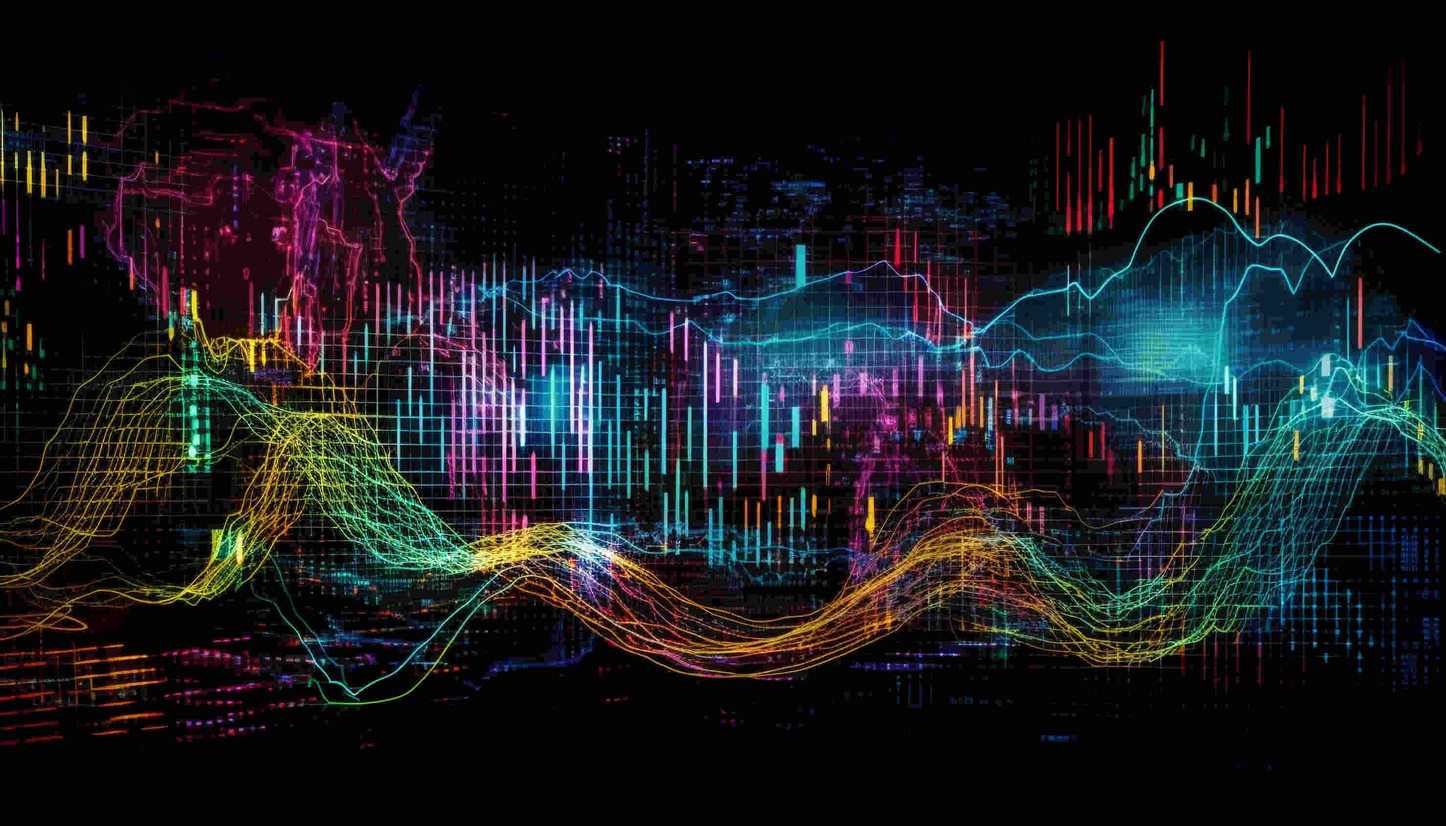
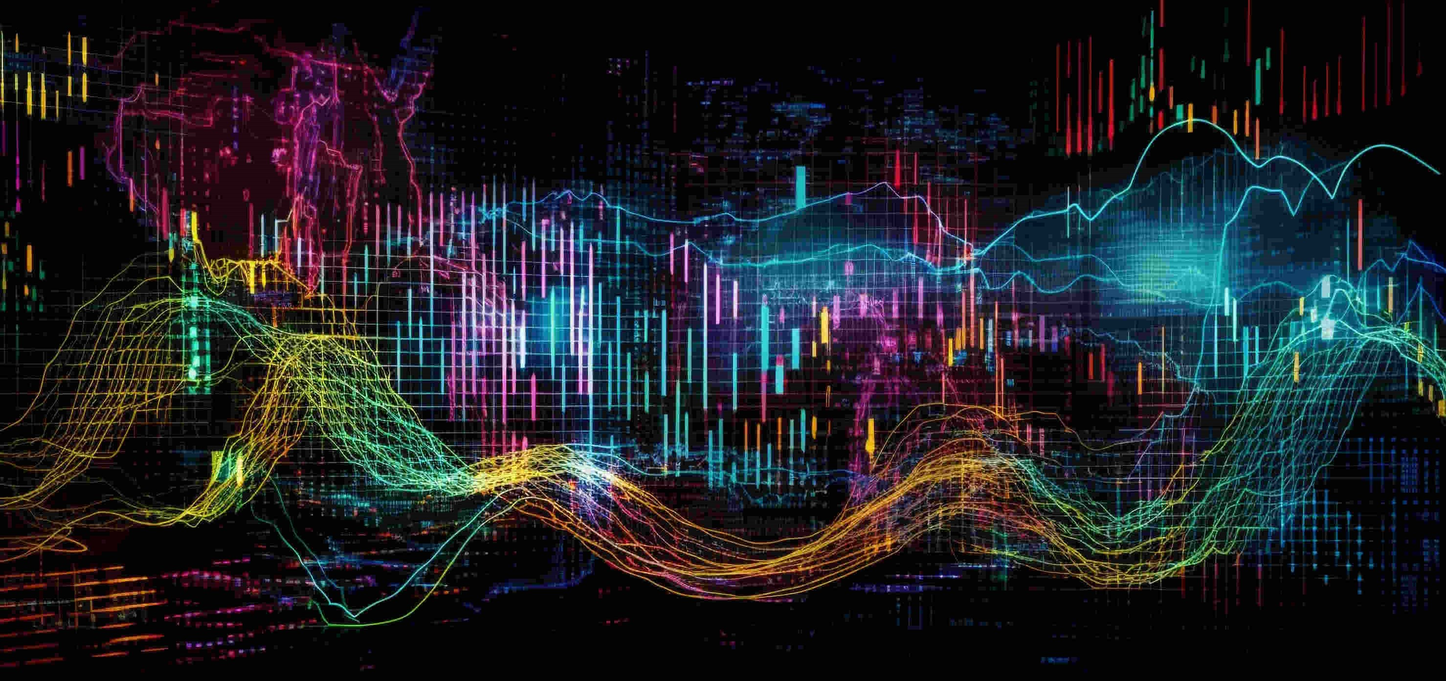
added sections to landing page

diff --git a/frontend/src/styles/PublicStyles/InitialLandingPage.css b/frontend/src/styles/PublicStyles/InitialLandingPage.css
@@ -1,7 +1,6 @@
 .landing_page {
   width: 100%;
   height: 90vh;
-  display: flex;
   justify-content: center;
   align-items: left;
   flex-direction: column;
@@ -9,48 +8,7 @@
   background-size: cover;
   font-family: "Gill Sans", "Gill Sans MT", Calibri, "Trebuchet MS", sans-serif;
 }
-
-.headerContainer {
-  width: auto;
-  margin-left: 50px;
-}
-
-.headerContainer h1 {
-  justify-content: center;
-  align-items: center;
-  font-size: 90px;
-  height: 60px;
-  font-weight: 50;
-  color: black;
-}
-
-.headerContainer p {
-  padding: 0;
-  font-size: 40px;
-  font-weight: lighter;
-  color: black;
-}
-
-.headerContainer button {
-  color: black;
-  border: none;
-  border-radius: 5px;
-  cursor: pointer;
-  justify-content: center;
-  background-color: #121619;
-  height: 50px;
-  width: 180px;
-  color: white;
-  text-decoration: none;
-  font-size: 20px;
-}
-
-.headerContainer button:hover {
-  background-color: #07090a;
-  cursor: pointer;
-  transition: 0.3s ease-in;
-}
-
+/* add screen resizing styles */
 @media only screen and (max-width: 650px) {
   .home {
     justify-content: center;
@@ -75,20 +33,112 @@
     height: 30px;
     color: white;
   }
+}
 
-  .headerContainer p {
-    font-size: 30px;
-    color: white;
-  }
+/* Reset basic styles */
+* {
+  margin: 0;
+  padding: 0;
+  box-sizing: border-box;
+}
 
-  .headerContainer button {
-    background-color: white;
-    color: #121619;
-    margin-bottom: 30px;
-  }
+body {
+  font-family: Arial, sans-serif;
+  line-height: 1.6;
+  overflow-x: hidden; /* Prevent horizontal scrolling */
+}
 
-  .headerContainer button:hover {
-    background-color: rgb(225, 225, 225);
-    color: #121619;
-  }
+/* Section styles */
+.section {
+  padding: 100px 20px; /* Adds space around the content */
+  min-height: 200px; /* Each section takes up at least the full viewport height */
+  display: flex;
+  align-items: center;
+  justify-content: center;
+  text-align: center;
+}
+
+/* Different background colors for each section */
+.headerContainer {
+  background-color: #000000;
+  height: 700px;
+}
+
+.headerContainer h1 {
+  justify-content: center;
+  align-items: center;
+  font-size: 90px;
+  height: 60px;
+  font-weight: 50;
+  font-family: system-ui, -apple-system, BlinkMacSystemFont, "Segoe UI", Roboto,
+    Oxygen, Ubuntu, Cantarell, "Open Sans", "Helvetica Neue", sans-serif;
+  color: rgb(255, 255, 255);
+}
+
+.fancy {
+  background-size: cover; /* Make the image cover the entire section */
+  background-position: center; /* Center the background image */
+  background-repeat: no-repeat; /* Prevent the background image from repeating */
+  height: 750px;
+  position: relative;
+}
+
+.textbox {
+  background-color: rgb(10, 10, 10); /* Light background with opacity */
+  padding: 20px;
+  width: 750px; /* Width is 50% of the section */
+  height: 450px;
+  position: absolute; /* Position absolute to control placement */
+  left: 50px; /* 25% from the left edge of the section */
+  top: 50%; /* Vertically center the textbox */
+  transform: translateY(
+    -50%
+  ); /* Adjust position for perfect vertical centering */
+  box-shadow: 0px 4px 8px rgba(0, 0, 0, 0.2); /* Optional: Add a shadow for better visibility */
+  border-radius: 50px;
+  display: flex;
+}
+
+.fancyMsg {
+  font-family: system-ui, -apple-system, BlinkMacSystemFont, "Segoe UI", Roboto,
+    Oxygen, Ubuntu, Cantarell, "Open Sans", "Helvetica Neue", sans-serif;
+  color: rgb(225, 225, 225);
+  font-size: 80px;
+  text-align: left;
+  display: table-cell;
+  font-weight: lighter;
+  line-height: 100px;
+
+  position: absolute;
+  top: 20%;
+  left: 40px;
+  transform: translateY(-20%);
+}
+
+.getStartedLink {
+  position: absolute;
+  font-family: "Trebuchet MS", "Lucida Sans Unicode", "Lucida Grande",
+    "Lucida Sans", Arial, sans-serif;
+  color: rgb(225, 225, 225);
+  font-size: 40px;
+  text-align: right;
+  top: 80%;
+  right: 40px;
+}
+
+.getStartedLink:hover {
+  color: aliceblue;
+}
+
+.tickers {
+  background-color: #6a00ff;
+}
+
+.section-3 {
+  background-color: #26a33b;
+}
+
+/* Optional: Add smooth scrolling */
+html {
+  scroll-behavior: smooth;
 }

diff --git a/frontend/src/pages/PublicPages/InitialLandingPage.tsx b/frontend/src/pages/PublicPages/InitialLandingPage.tsx
@@ -1,13 +1,27 @@
 import "../../styles/PublicStyles/InitialLandingPage.css";
-import landingPagePhoto2 from "../../assets/compressedImg.jpg";
+import landingPagePhoto2 from "../../assets/landingPagePhoto2.jpg";
 
 function InitialLandingPage() {
   return (
-    <div
-      className="landing_page"
-      style={{ backgroundImage: `url(${landingPagePhoto2})` }}
-    >
-      <div className="headerContainer"></div>
+    <div className="landing_page">
+      <div className="section headerContainer">
+        <h1 className="welcomeMessage">Welcome to TradeSquare</h1>
+      </div>
+      <div
+        className="section fancy"
+        style={{ backgroundImage: `url(${landingPagePhoto2})` }}
+      >
+        <div className="textbox">
+          <p className="fancyMsg">
+            Cutting edge tools designed for traders, by traders
+          </p>
+          <a className="getStartedLink" href="/register">
+            Get started!
+          </a>
+        </div>
+      </div>
+      <div className="section tickers">tickers</div>
+      <div className="section section-3">css makes me wanna kms</div>
     </div>
   );
 }

diff --git a/frontend/src/App.tsx b/frontend/src/App.tsx
@@ -9,7 +9,6 @@ import InitialLandingPage from "./pages/PublicPages/InitialLandingPage.tsx";
 import RegisterPage from "./pages/PublicPages/RegisterPage.tsx";
 import LoginPage from "./pages/PublicPages/LoginPage.tsx";
 import NavBar from "./components/NavBar.tsx";
-import LoginButtons from "./pages/PublicPages/LoginButtons.tsx";
 import ProfitCalc from "./pages/UserPages/ProfitCalc.tsx";
 import PricingPage from "./pages/PublicPages/PricingPage.tsx";
 import HVCharts from "./pages/UserPages/HVCharts.tsx";
@@ -33,7 +32,6 @@ function App() {
             <Route path="/options-tables" element={<OptionsTables />} />
             <Route path="/:id" element={<Old_Contract />} />
             <Route path="/bid-ask-test" element={<Database />} />
-            <Route path="/loginbuttons" element={<LoginButtons />} />
             <Route path="/profit-calc" element={<ProfitCalc />} />
             <Route path="/pricing" element={<PricingPage />} />
             <Route path="/hist-iv-charts" element={<HVCharts />} />

diff --git a/frontend/src/components/PublicComponents/WebsiteNavBar.tsx b/frontend/src/components/PublicComponents/WebsiteNavBar.tsx
@@ -74,11 +74,7 @@ function WebsiteNavBar() {
         <Button className="navbarButton">Hello</Button>
       </div>
       <div className="rightSide">
-        <Button
-          className="startButton"
-          sx={startButtonStyle}
-          href="/loginbuttons"
-        >
+        <Button className="startButton" sx={startButtonStyle} href="/register">
           Get Started
         </Button>
       </div>

diff --git a/frontend/src/styles/PublicStyles/WebsiteNavBar.css b/frontend/src/styles/PublicStyles/WebsiteNavBar.css
@@ -4,6 +4,11 @@
   background-color: #020303;
   display: flex;
   flex-direction: row;
+  text-align: center;
+  position: fixed; /* Keeps navbar fixed at the top */
+  top: 0;
+  left: 0;
+  z-index: 1000; /* Ensures navbar stays on top of other content */
 }
 
 .navbar .leftSide {

diff --git a/frontend/src/components/PublicComponents/RegistrationForm.tsx b/frontend/src/components/PublicComponents/RegistrationForm.tsx
@@ -87,7 +87,7 @@ function RegistrationForm() {
         <section>
           <h1>Success!</h1>
           <p>
-            <a href="#">Sign In</a>
+            <a href="/login">Sign In</a>
           </p>
         </section>
       ) : (
